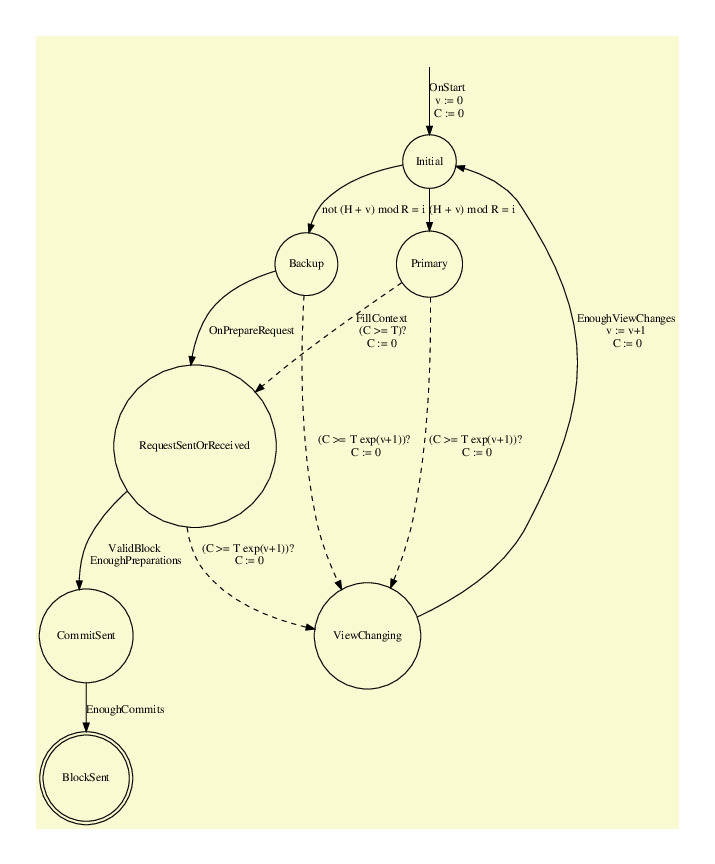
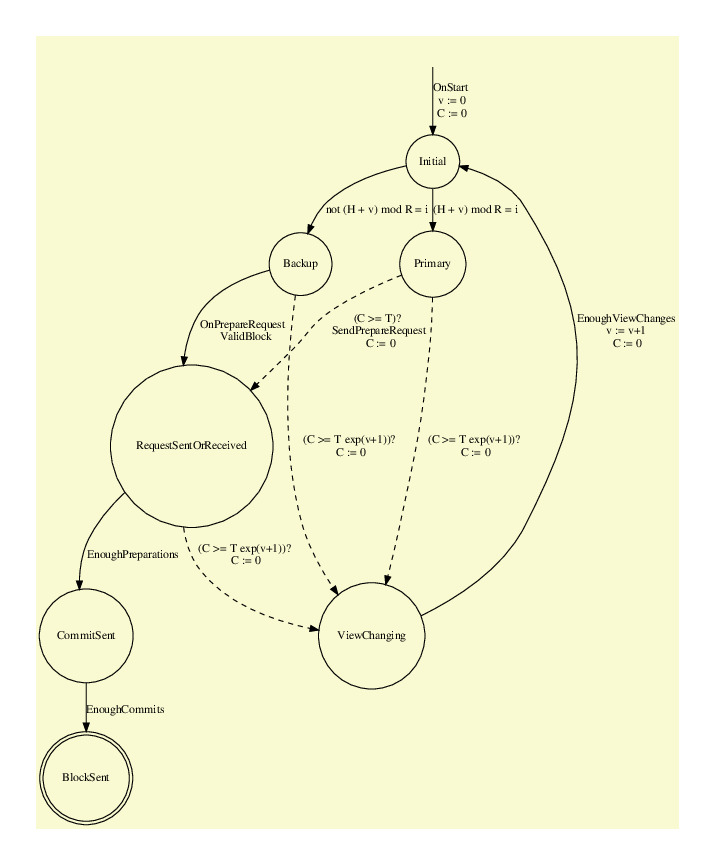
more clarifications on transitions

diff --git a/sections/08_dBFT.md b/sections/08_dBFT.md
@@ -113,6 +113,16 @@ The execution flow of a State Machine replica begins on the `Initial` state, for
 Given `T` as standard block time (15 seconds); `v` as current view number (starting from $v=0$); $exp(j)$ is set to $2^j$; `i` as consensus index; `R` as total number of consensus nodes.
 This State Machine can be represented as a Timed Automata [@AlurDill:1994], where `C` represents the clock variable and operations `(C condition)?` represent timed transitions (`C:=0` resets clock).
 Dashed lines represent transitions that explicitly depend on a timeout behavior and were included in a different format for clarity.
+It is also assumed that transitions are processed *in the order* they are presented. For example:
+
+```
+ (C >= 5)?
+ A
+ (C >= 7)?
+ B
+```
+
+This block would first wait until clock `C` has over 5 seconds, then process `A`, then check clock to meet 7 seconds, and then process `B`. This allows a more precise description of the actual dBFT 2.0 implementation.
 
 ~~~~ {.graphviz #fig:dbft-sm caption="dBFT 2.0 State Machine for specific block height" width=90% filename="graphviz-dbft-sm"}
 digraph dBFT {
@@ -126,9 +136,9 @@ digraph dBFT {
   Empty -> Initial [label = "OnStart\n v := 0\n C := 0"];
 	Initial -> Primary [ label = "(H + v) mod R = i" ];
 	Initial -> Backup [ label = "not (H + v) mod R = i" ];
-	Primary -> RequestSentOrReceived [ label = "FillContext\n (C >= T)?\nC := 0", style="dashed" ];
-	Backup -> RequestSentOrReceived [ label = "OnPrepareRequest" ];
-	RequestSentOrReceived -> CommitSent [ label = "ValidBlock\n EnoughPreparations" ];
+	Primary -> RequestSentOrReceived [ label = "(C >= T)? \n SendPrepareRequest \n C := 0", style="dashed" ];
+	Backup -> RequestSentOrReceived [ label = "OnPrepareRequest \n ValidBlock" ];
+	RequestSentOrReceived -> CommitSent [ label = "EnoughPreparations" ];
 	CommitSent -> BlockSent [ label = "EnoughCommits" ];
 	ViewChanging -> Initial [ label = "EnoughViewChanges\n v := v+1 \n C := 0" ];
   RequestSentOrReceived -> ViewChanging [ label = "(C >= T exp(v+1))?\n C := 0", style="dashed" ];
@@ -143,10 +153,14 @@ digraph dBFT {
 
 <!-- END COMMENT -->
 
-On [Figure @Fig:dbft-sm], consensus node starts on `Initial` state, on view $v=0$. Given `H` and `v`, a round-robin procedure detects if current node $i$ is Primary: $(H + v) \mod R = i$ (it is set to backup otherwise). If node is Primary, it may proceed to `RequestSent` after `FillContext` action (that selects transactions and creates a new proposed block) after $T$ seconds.
+On [Figure @Fig:dbft-sm], consensus node starts on `Initial` state, on view $v=0$. Given `H` and `v`, a round-robin procedure detects if current node $i$ is Primary: $(H + v) \mod R = i$ (it is set to backup otherwise). If node is Primary, it may proceed to `RequestSentOrReceived` after `SendPrepareRequest` action (that selects transactions and creates a new proposed block) after $T$ seconds. If node is Backup, it needs to wait for a `OnPrepareRequest` action.
+After clocks expire, nodes may enter a `ViewChanging` state, what guarantees *liveness* to the network in case of failed Primary. However, CommitSet state guarantees that no view change occurs, as the node is already *committed* to that specific block (so it won't provide signature to any other block on that height). Since this could compromise the liveness of the network, a Recovery process was proposed (see [Figure @Fig:dbft-v2-recover]).
+`EnoughPreparations`, `EnoughCommits` and `EnoughViewChanges` depend on having enough valid responses that surpass the byzantine level $M$ (thus, respecting maximum number of faulty nodes $f$).
 `T` is currently, until version 2.0, calculated as a basin on the time that the node received last block instead of checking the timestamp in which previous header was signed.
 
+<!-- not necessary for now
 ## Pseudocode
+-->
 
 <!--
 ## Signatures sharing
